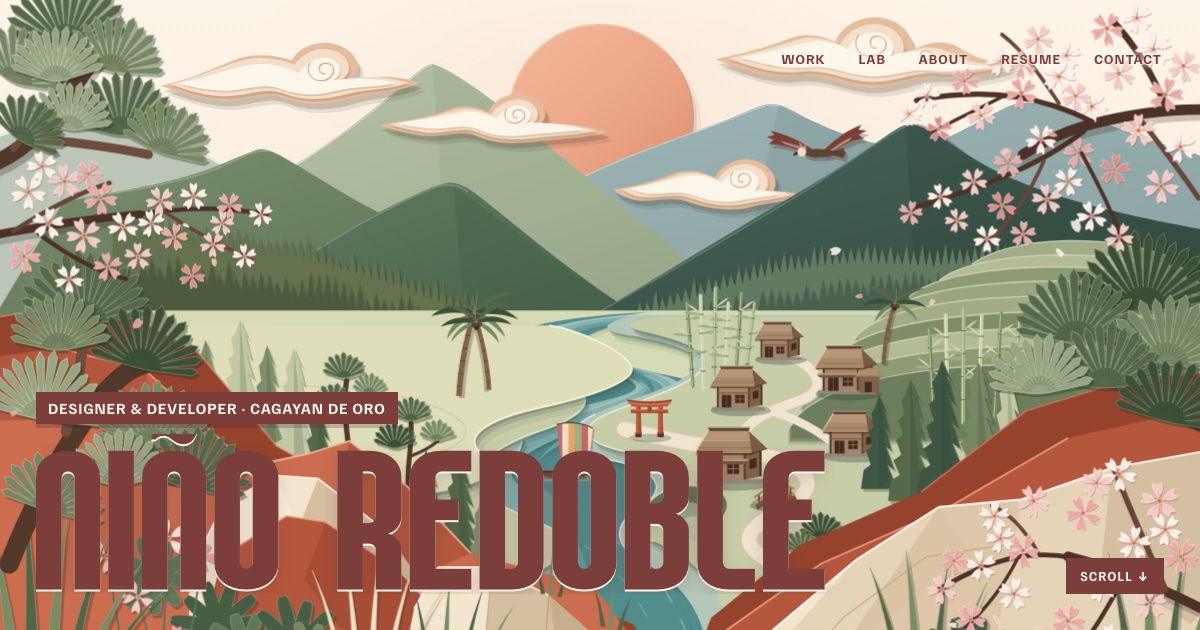
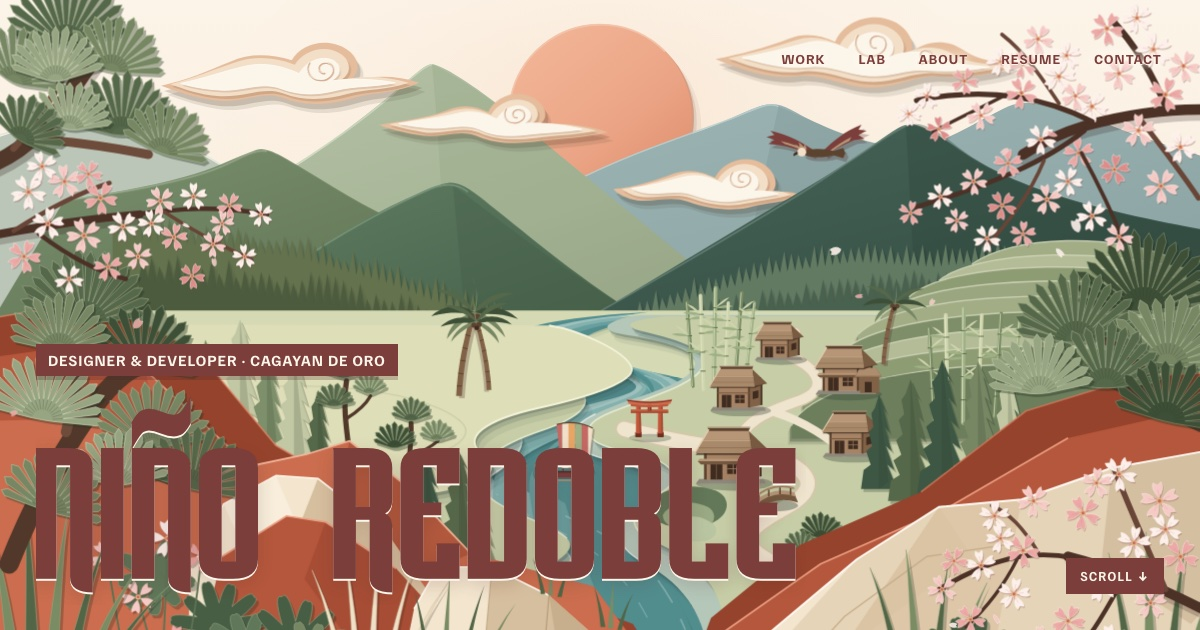
feat: switch the display font to Empanada Bold (OFL)
Analogy is personal-use only, so it was never shipped and the live site
would have fallen back to system fonts. Empanada Bold by Neale Davidson
(Pixel Sagas) is under the SIL Open Font License 1.1, which the
licence file in its download confirms. It's self-hosted with OFL.txt
alongside, and credited in the Colophon.

- The hero name gets more line height and padding so Empanada's taller
  ñ and descenders aren't clipped by the rise-in animation.
- The sharing image is re-captured with the new font.
- No headline overflows on any page at 375, 768 or 1440px.

Changed region(s): [[0.0308, 0.5429, 0.7092, 0.9651]]

diff --git a/src/styles/tokens.css b/src/styles/tokens.css
@@ -8,9 +8,9 @@
   --rosewood: #7b3e3b; /* text · dark colour · the scene's most-used colour */
   --sakura: #c46864; /* accent · the blossoms */
 
-  /* Analogy is licensed for personal use only; until a webfont licence is bought it is
-     local-only (gitignored), so production falls back to a condensed system face. */
-  --font-display: 'Analogy', 'Arial Narrow', 'Roboto Condensed', 'Helvetica Neue Condensed', Impact, sans-serif;
+  /* Empanada Bold by Neale Davidson (Pixel Sagas), SIL Open Font License 1.1,
+     self-hosted with its licence at /fonts/empanada/. */
+  --font-display: 'Empanada', 'Arial Narrow', 'Roboto Condensed', sans-serif;
   --font-body: 'Familjen Grotesk', system-ui, sans-serif;
 
   --ease-out: cubic-bezier(0.2, 0.8, 0.2, 1);

diff --git a/src/styles/global.css b/src/styles/global.css
@@ -3,6 +3,13 @@
 @import '@fontsource/familjen-grotesk/700.css';
 @import './tokens.css';
 
+@font-face {
+  font-family: 'Empanada';
+  src: url('/fonts/empanada/empanada-bold.otf') format('opentype');
+  font-weight: 400 700;
+  font-display: swap;
+}
+
 *,
 *::before,
 *::after {
